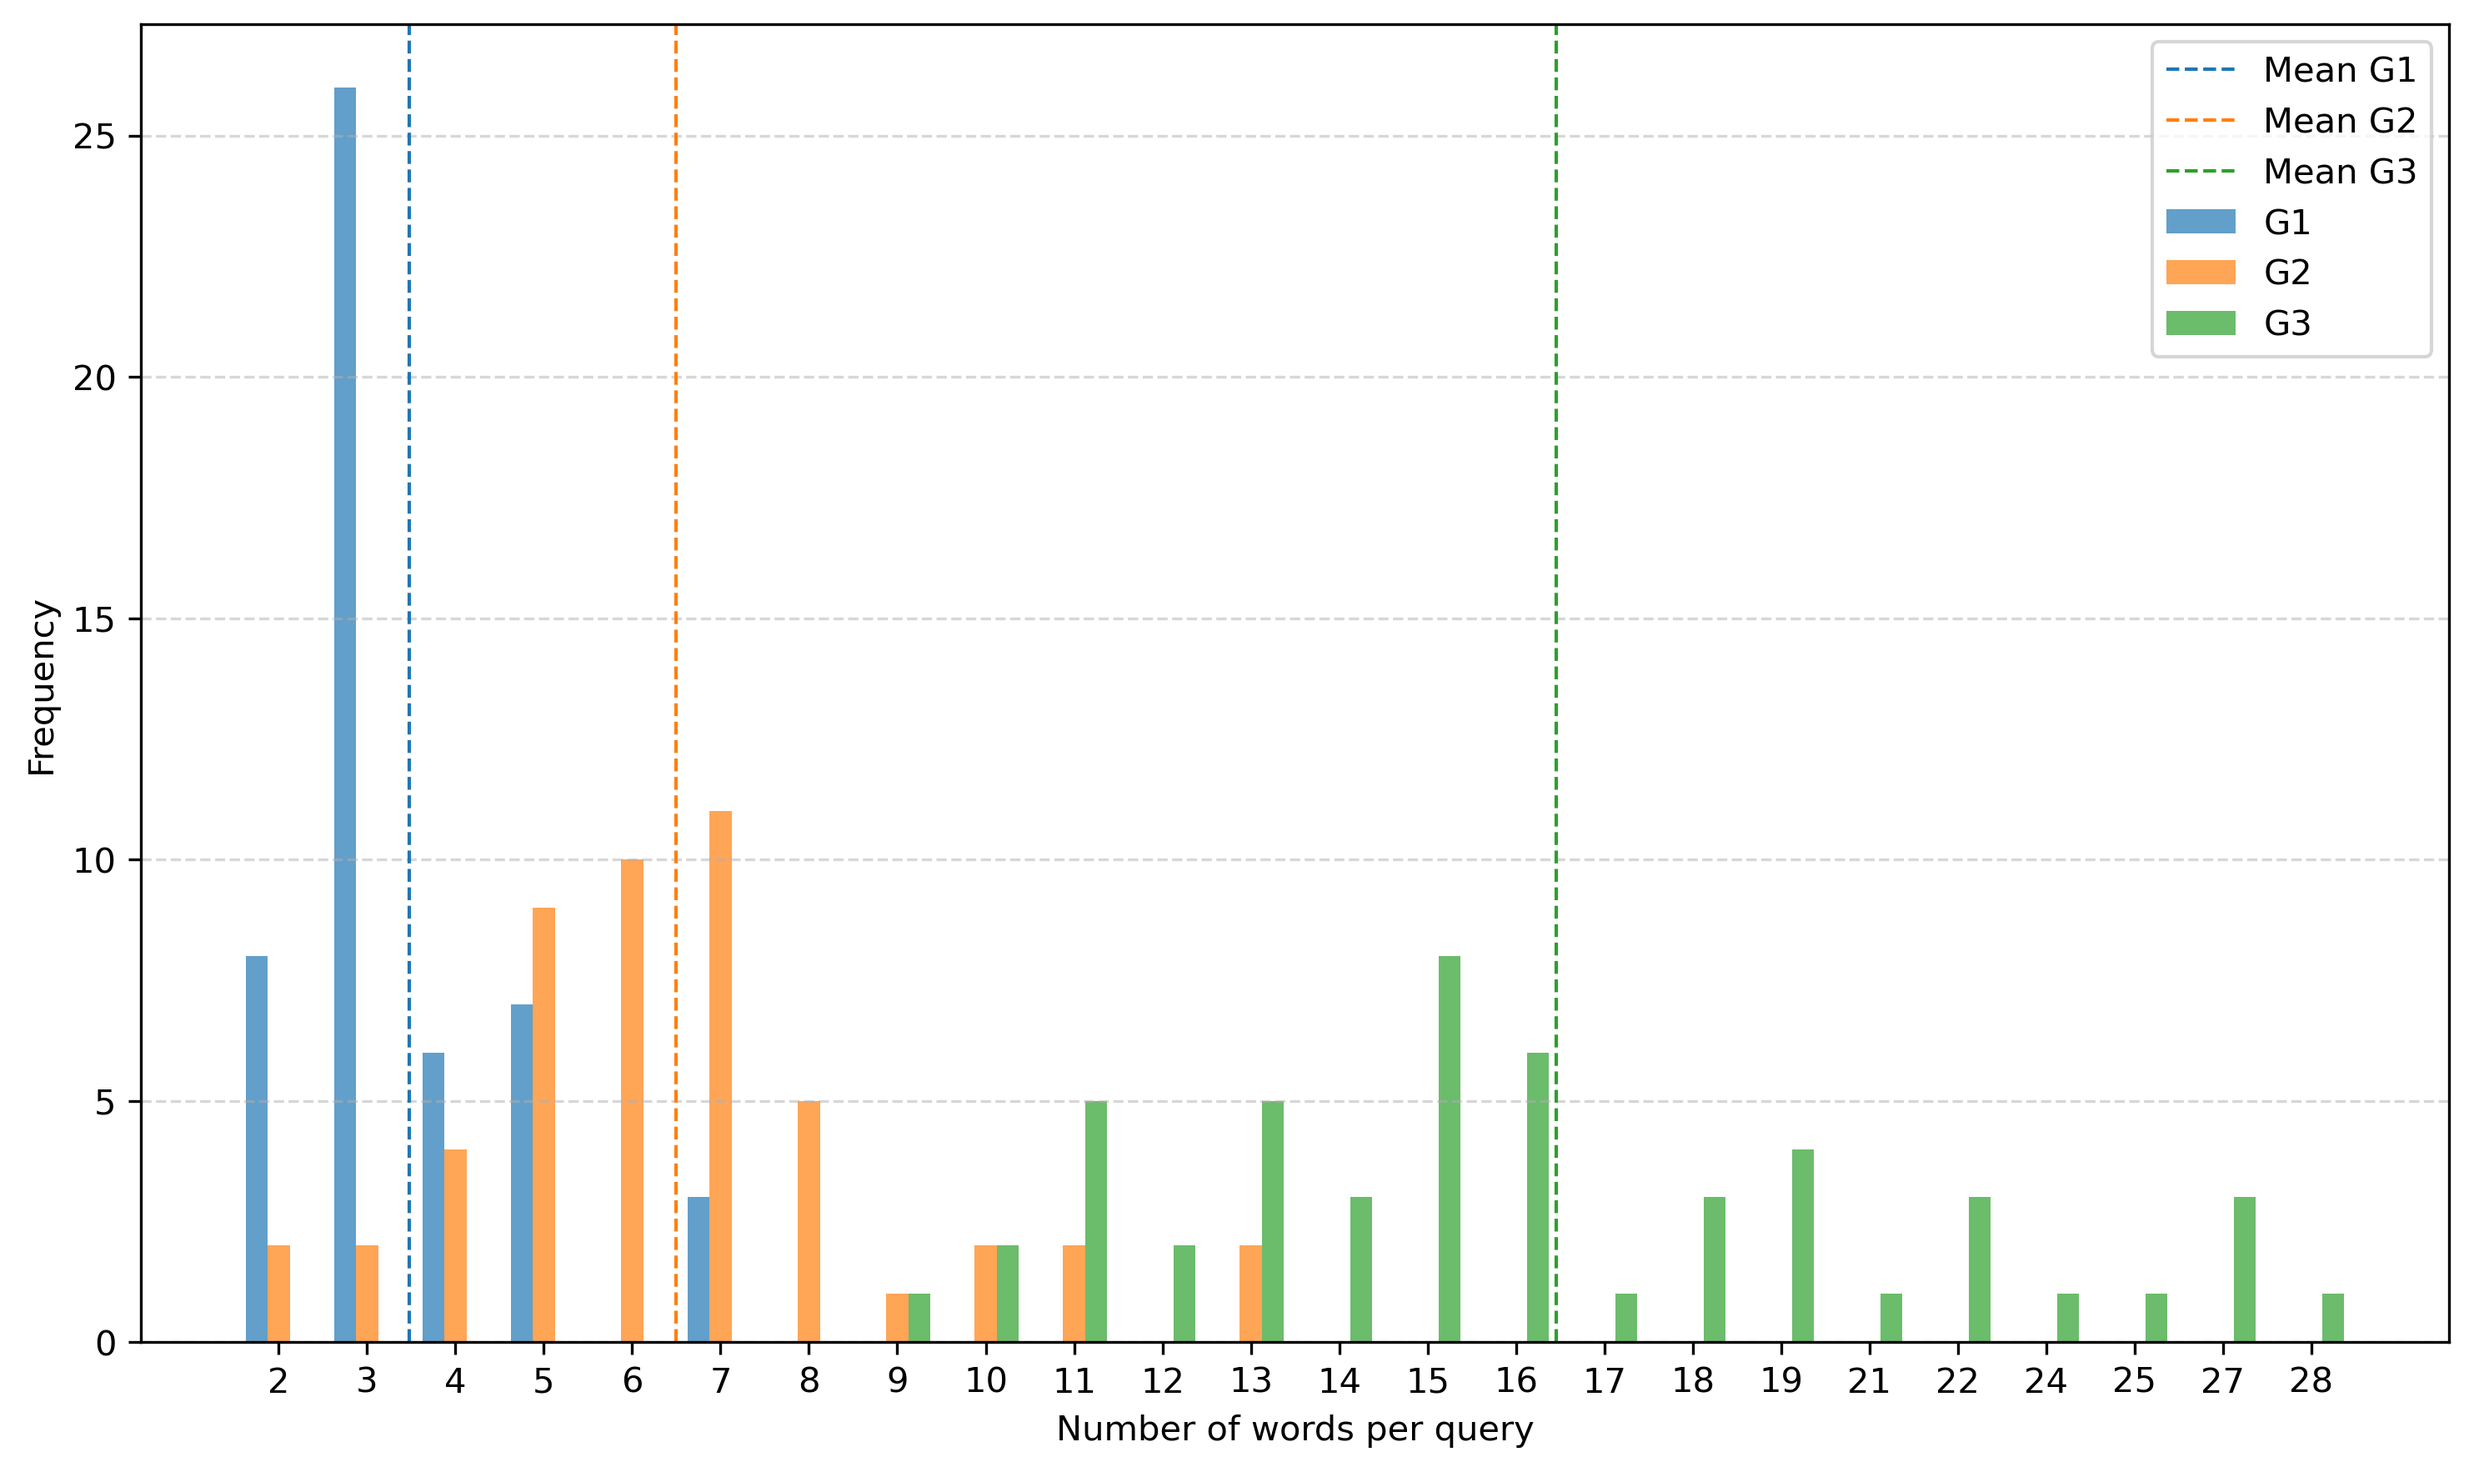
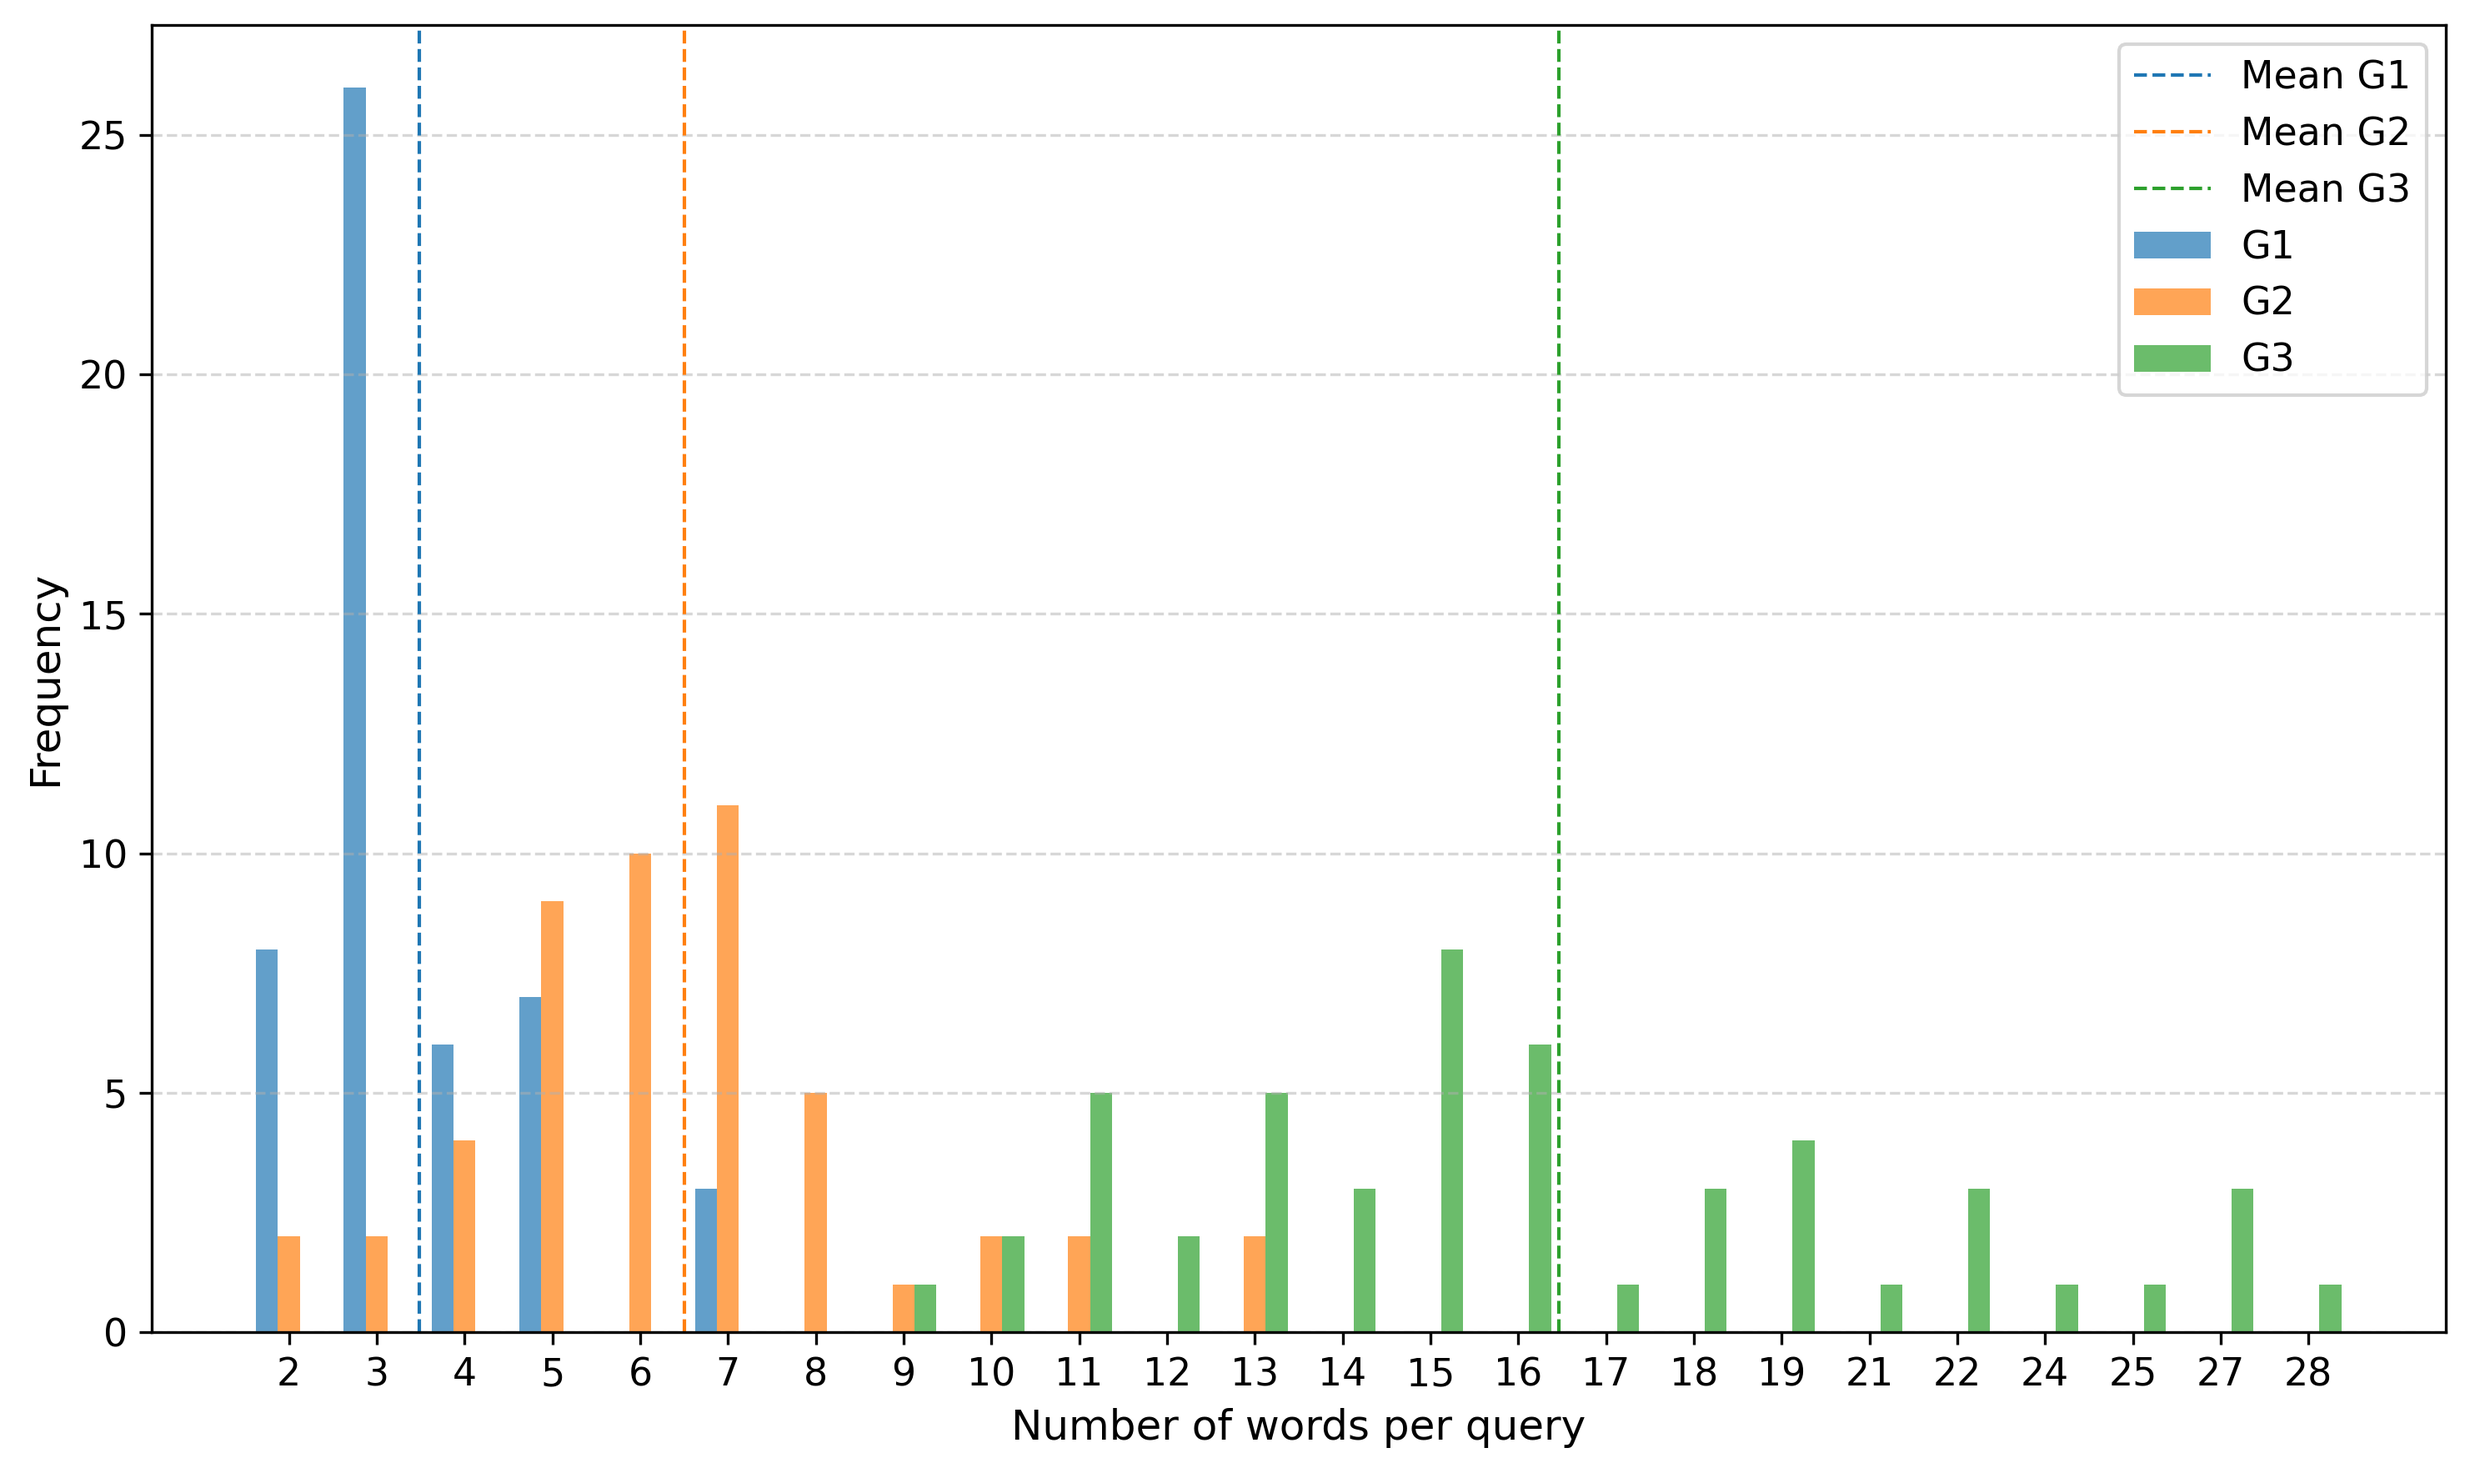
Atualiza figuras

diff --git a/codigo/related/juristcu-metricas-barrahorizontal.py b/codigo/related/juristcu-metricas-barrahorizontal.py
@@ -91,7 +91,7 @@ def percentual_do_baseline(resultados, baseline):
     return [(v - baseline) / baseline * 100 for v in resultados]
 
 
-def plot_metricas(grupo, calcular_percentual=True, salvar_figura=False, baseline_no_topo=True, limite_para_percentual_fora_barra=-50):
+def plot_metricas(grupo, calcular_percentual=True, salvar_figura=False, baseline_no_topo=True, maior_valor_exibir_fora_barra=90):
     if grupo == 1:
         metricas = metricas_g1
     elif grupo == 2:
@@ -101,16 +101,18 @@ def plot_metricas(grupo, calcular_percentual=True, salvar_figura=False, baseline
 
     # Configuração dos subplots
     label_metricas = ["P@10", "R@10", "MRR@10", "nDCG@10"]
-    fig, axes = plt.subplots(2, 2, figsize=(12, 10))
-    fig.suptitle(f"Query group: G{grupo}")
-
-    mapa = plt.cm.get_cmap("tab10", 20)
+    fig, axes = plt.subplots(2, 2,
+                             figsize=(12, 12),
+                             gridspec_kw={'wspace': 0.1, 'hspace': 0.35})
+    #fig.suptitle(f"Query group: G{grupo}", y=0.91, fontsize=12)
+   
+    mapa= plt.rcParams['axes.prop_cycle'].by_key()['color']
     colors = {
         "baseline": "lightgray",
-        "expansao_doc": "lightgreen",
-        "semantico": "lightsalmon"
+        "expansao_doc": mapa[0],
+        "semantico": mapa[1]
     }
-    alpha=0.7
+    alpha=0.6
 
     for idx_metrica, label_metrica in enumerate(label_metricas):
         ax = axes[idx_metrica // 2, idx_metrica % 2]
@@ -150,40 +152,45 @@ def plot_metricas(grupo, calcular_percentual=True, salvar_figura=False, baseline
         # Rótulos percentual em cima da barra
         if not calcular_percentual:
             for barra in barras_exp_doc + barras_semantico:
-                altura = barra.get_width()
-                valor_para_exibir = round(percentual_do_baseline(altura, baseline_value))
-                posicao_x_para_exibir = barra.get_width() + 6 if valor_para_exibir < limite_para_percentual_fora_barra else barra.get_width() / 2
-                valor_para_exibir = f"{'+' if valor_para_exibir > 0 else ''}{valor_para_exibir}%"
+                valor_barra = barra.get_width()
+                valor_para_exibir = round(percentual_do_baseline(valor_barra, baseline_value))
+                cor_texto_barra = 'red' if valor_para_exibir < 0 else 'darkgreen'
+                if valor_barra < maior_valor_exibir_fora_barra:
+                    posicao_x_para_exibir = barra.get_width() + (3.5 if valor_para_exibir == 2 else 5)
+                else:
+                    posicao_x_para_exibir = barra.get_width() - 5
+                valor_para_exibir = f"{'' if valor_para_exibir > 0 else ''}{valor_para_exibir}%"
                 ax.text(posicao_x_para_exibir,
                         barra.get_y() + (barra.get_height() if baseline_no_topo else 0),  # Posição do texto
                         valor_para_exibir,  # O texto a ser exibido
+                        color=cor_texto_barra,
                         ha='center', va='bottom', fontsize=12)  # Alinhamento e tamanho da fonte
             ax.set_xlim(0, 100)
     
         # Rótulos no eixo x e y e título
         if calcular_percentual:
             # Eixo x
-            ax.set_yticks(list(y_expansao_doc) + list(y_semantico))
-            ax.set_yticklabels(ordem_expansao_doc + ordem_semantico)
-            # Eixo y
+            ax.set_xlabel(f"{label_metrica}", fontsize=12)
             ax.set_xlabel("Percentage relative to the baseline")
-            # Título
-            ax.set_title(label_metrica)
+            # Eixo y
+            ax.set_yticks(list(y_expansao_doc) + list(y_semantico))
+            ax.set_yticklabels(ordem_expansao_doc + ordem_semantico)           
         else:
             # Eixo x
-            ax.set_yticks(list(y_baseline) + list(y_expansao_doc) + list(y_semantico))
-            ax.set_yticklabels(["BM25 (baseline)"] + ordem_expansao_doc + ordem_semantico)
+            ax.set_xlabel(f"{label_metrica}", fontsize=12)
             # Eixo y
-            ax.set_xlabel(f"{label_metrica}")
-            # Título
-            #ax.set_title(label_metrica)
-        
+            ax.set_yticks(list(y_baseline) + list(y_expansao_doc) + list(y_semantico))
+            if idx_metrica % 2 == 0:
+                ax.set_yticklabels(["BM25 (baseline)"] + ordem_expansao_doc + ordem_semantico)
+            else:
+                ax.set_yticklabels([])
+                   
         
         # Linha de referência no 0 %
         if calcular_percentual:
-            ax.axvline(0, color="black", linewidth=0.8)
+            ax.axvline(0, color="gray", linewidth=0.8)
         else:
-            ax.axvline(baseline_value, color="black", linestyle="--", linewidth=0.8)
+            ax.axvline(baseline_value, color="gray", linestyle="--", linewidth=0.8)
                 
         ax.grid(True, axis="y", linestyle="--", alpha=0.5)
                
@@ -197,11 +204,11 @@ def plot_metricas(grupo, calcular_percentual=True, salvar_figura=False, baseline
     if calcular_percentual:
         fig.legend(handles=[expansao_doc_patch, semantico_patch],
                loc="lower center",
-               bbox_to_anchor=(0.55, 0.45))
+               bbox_to_anchor=(0.52, 0.46))
     else:
         fig.legend(handles=[baseline_patch, expansao_doc_patch, semantico_patch],
                loc="lower center",
-               bbox_to_anchor=(0.55, 0.45))
+               bbox_to_anchor=(0.52, 0.46))
     
     plt.tight_layout(rect=[0, 0, 1, 1], h_pad=5, w_pad=5)
     
@@ -212,6 +219,7 @@ def plot_metricas(grupo, calcular_percentual=True, salvar_figura=False, baseline
 
 salvar_figura=True
 baseline_no_topo=True
-plot_metricas(grupo=1, calcular_percentual=False, salvar_figura=salvar_figura, baseline_no_topo=baseline_no_topo, limite_para_percentual_fora_barra=-40)
-plot_metricas(grupo=2, calcular_percentual=False, salvar_figura=salvar_figura, baseline_no_topo=baseline_no_topo, limite_para_percentual_fora_barra=-100)
-plot_metricas(grupo=3, calcular_percentual=False, salvar_figura=salvar_figura, baseline_no_topo=baseline_no_topo, limite_para_percentual_fora_barra=-100)
+maior_valor_exibir_fora_barra=100
+plot_metricas(grupo=1, calcular_percentual=False, salvar_figura=salvar_figura, baseline_no_topo=baseline_no_topo, maior_valor_exibir_fora_barra=maior_valor_exibir_fora_barra)
+plot_metricas(grupo=2, calcular_percentual=False, salvar_figura=salvar_figura, baseline_no_topo=baseline_no_topo, maior_valor_exibir_fora_barra=maior_valor_exibir_fora_barra)
+plot_metricas(grupo=3, calcular_percentual=False, salvar_figura=salvar_figura, baseline_no_topo=baseline_no_topo, maior_valor_exibir_fora_barra=maior_valor_exibir_fora_barra)

diff --git a/codigo/related/histograma_tamanho_queries.py b/codigo/related/histograma_tamanho_queries.py
@@ -50,11 +50,13 @@ def plot_histogram(array1, array2, array3, labels, nome_figura_salvar = None):
     ax.axvline(np.interp(mean3, all_keys, x), color='tab:green', linestyle='dashed', linewidth=1, label=f'Mean {labels[2]}')
     
     # Ajustar rótulos e legenda
-    ax.set_xlabel("Number of words per query")
-    ax.set_ylabel("Frequency")
+    ax.set_xlabel("Number of words per query", fontsize=12)
+    ax.set_ylabel("Frequency", fontsize=12)
     ax.set_xticks(x)
     ax.set_xticklabels(all_keys)
-    ax.legend()
+    ax.tick_params(axis='x', labelsize=11)
+    ax.tick_params(axis='y', labelsize=11)
+    ax.legend(fontsize=11)
     
     plt.tight_layout()
     if nome_figura_salvar is not None:
